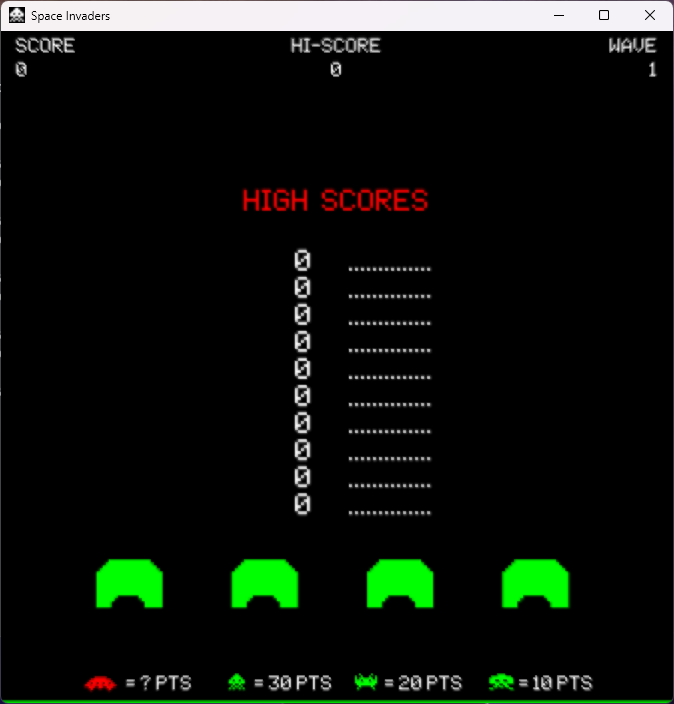
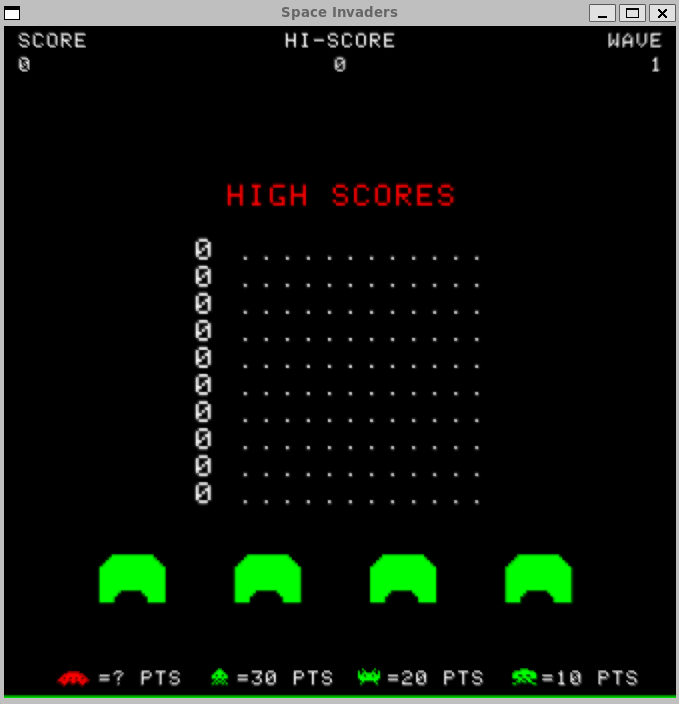
feat: use sprites for text

diff --git a/invaders.py b/invaders.py
@@ -1285,13 +1285,14 @@ class Game:
 
         message = "HIGH CCORES" if variant and self.hiscore_count < 445 else "HIGH SCORES"
 
-        self._draw_center_text(message, self.fontred, FONT_MEDIUM, y=SCREEN_HEIGHT // 2 - 180)
+        self._draw_center_text(message, self.fontred, FONT_MEDIUM, SCREEN_HEIGHT // 2 - 180)
+        max_name_len = max(len(self.high_score_table[i]["name"]) for i in range(10))
+        max_score_len = len(str(self.high_score))
         for i in range(10):
             font = self.fontgreen if self.high_score_table[i]["highlight"] else self.fontwhite
-            self._draw_text(str(self.high_score_table[i]["score"]), font,
-                            FONT_MEDIUM, SCREEN_WIDTH // 2 - 57, SCREEN_HEIGHT // 2 - 126 + (i * 27), "right")
-            self._draw_text(self.high_score_table[i]["name"], font,
-                            FONT_MEDIUM, SCREEN_WIDTH // 2 - 24, SCREEN_HEIGHT // 2 - 126 + (i * 27), "left")
+            # Pad high scores and draw centered
+            self._draw_center_text(f'{self.high_score_table[i]["score"]:>{max_score_len}} {self.high_score_table[i]["name"]:<{max_name_len}}', 
+                                    font, FONT_MEDIUM, SCREEN_HEIGHT // 2 - 126 + (i * 27))
         self._draw_legend()
 
         # Animation of squid blowing up 'C'
